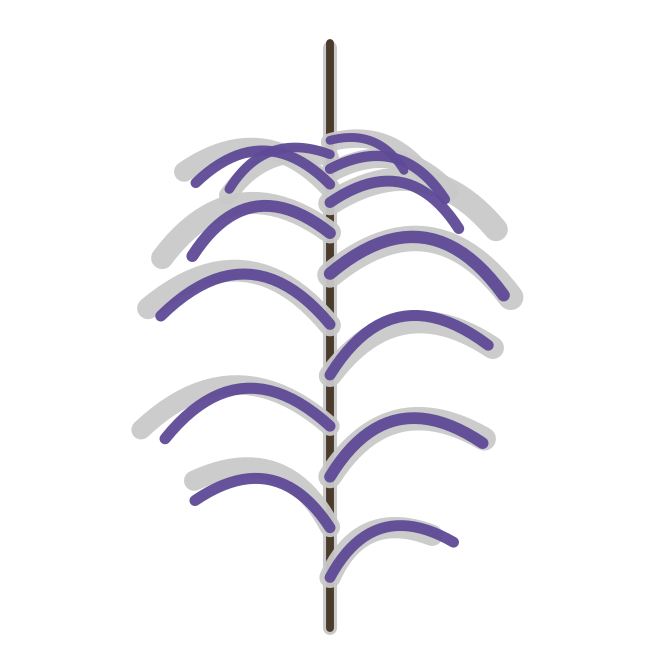
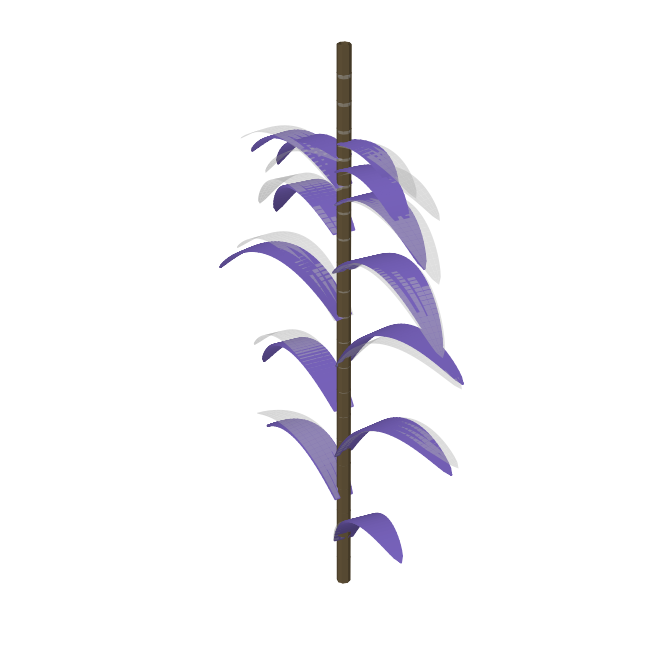
Fig. 1: the procedural models are 3D (figures/_proc3d.py): the plant CropCode writes in purple over the true plant in translucent grey, same plants and recipes (make_teaser_recipe_tiles.py; --2d keeps the old schematic); input captions shortened to '... hidden by neighbours' (they overlapped in the 

Changed region(s): [[0.1818, 0.0606, 0.7879, 0.9697]]

diff --git a/paper/overleaf/Figures/fig_teaser_tikz_ugg.tex b/paper/overleaf/Figures/fig_teaser_tikz_ugg.tex
@@ -33,12 +33,12 @@
 \node[anchor=north west, inner sep=0] at (26.0,74.0) {\includegraphics[width=1.1000in, height=1.1000in]{Figures/teaser/s_rgb.png}};
 \draw[draw=white, densely dashed, line width=0.80pt] (104.0,88.0) rectangle (168.0,284.0);
 \node[anchor=north west, inner sep=1.5pt, text=white, font={\fontsize{5.0}{6.0}\selectfont\sffamily\bfseries}] at (104.0,88.0) {target plant};
-\node[tcap] at (136.0,308.0) {25\,\% of the target plant hidden};
+\node[tcap] at (136.0,308.0) {25\,\% hidden by neighbours};
 \draw[draw=uRgbE, line width=1.0pt, rounded corners=6.5pt, fill=uRgbF, dash pattern=on 3pt off 2pt] (268.0,68.0) rectangle (500.0,300.0);
 \node[anchor=north west, inner sep=0] at (274.0,74.0) {\includegraphics[width=1.1000in, height=1.1000in]{Figures/teaser/m_rgb.png}};
 \draw[draw=white, densely dashed, line width=0.80pt] (354.0,84.0) rectangle (430.0,290.0);
 \node[anchor=north west, inner sep=1.5pt, text=white, font={\fontsize{4.6}{5.6}\selectfont\sffamily\bfseries}] at (354.0,84.0) {target plant};
-\node[tcap] at (384.0,308.0) {22\,\% of the target plant hidden};
+\node[tcap] at (384.0,308.0) {22\,\% hidden by neighbours};
 \draw[blk] (510.0,184.0) -- (566.0,184.0);
 % ---- the model ----
 \draw[draw=uModE, line width=1.0pt, rounded corners=8.6pt, shading=uggband, shading angle=0] (574.0,68.0) rectangle (750.0,300.0);

diff --git a/figures/make_teaser_recipe_tiles.py b/figures/make_teaser_recipe_tiles.py
@@ -16,6 +16,7 @@ matplotlib.use('Agg')
 import matplotlib.pyplot as plt
 import _plantviz as V
 import _fig12_kit as K
+import _proc3d as P3
 
 PL = {'sorghum': 'Sorghum_10113', 'maize': 'plant_0106'}
 ROW_RUNS = {'sorghum': 'sorghum_row_ft', 'maize': 'maize_row_ft_e1'}
@@ -60,7 +61,10 @@ if __name__ == '__main__':
     for sp, tag in (('sorghum', 's'), ('maize', 'm')):
         d = D[sp]
         rt = V.decode_recipe(sp, d['par'], d['tv']); rp = V.decode_recipe(sp, d['gen_par'], d['tv'], predicted=True)
-        fig = glyph_png(sp, rp, rt); fig.savefig(TILES / f'{tag}_recipe.png', dpi=600, transparent=True); plt.close(fig)
+        if '--2d' in sys.argv:
+            fig = glyph_png(sp, rp, rt); fig.savefig(TILES / f'{tag}_recipe.png', dpi=600, transparent=True); plt.close(fig)
+        else:                                         # 3D procedural model (user, 2026-11-14): truth translucent grey, written model purple
+            (TILES / f'{tag}_recipe.png').write_bytes(P3.png([(rt, P3.TRUTH_C, 0.45), (rp, P3.LEAF_C, 1.0)], sp, side=1.1, dpi=600))
         L = rp['leaves']; Lt = rt['leaves']
         if sp == 'sorghum':
             extra = [('leaf length', np.mean([l['length'] for l in L]), np.mean([l['length'] for l in Lt]), 'm', 2),
